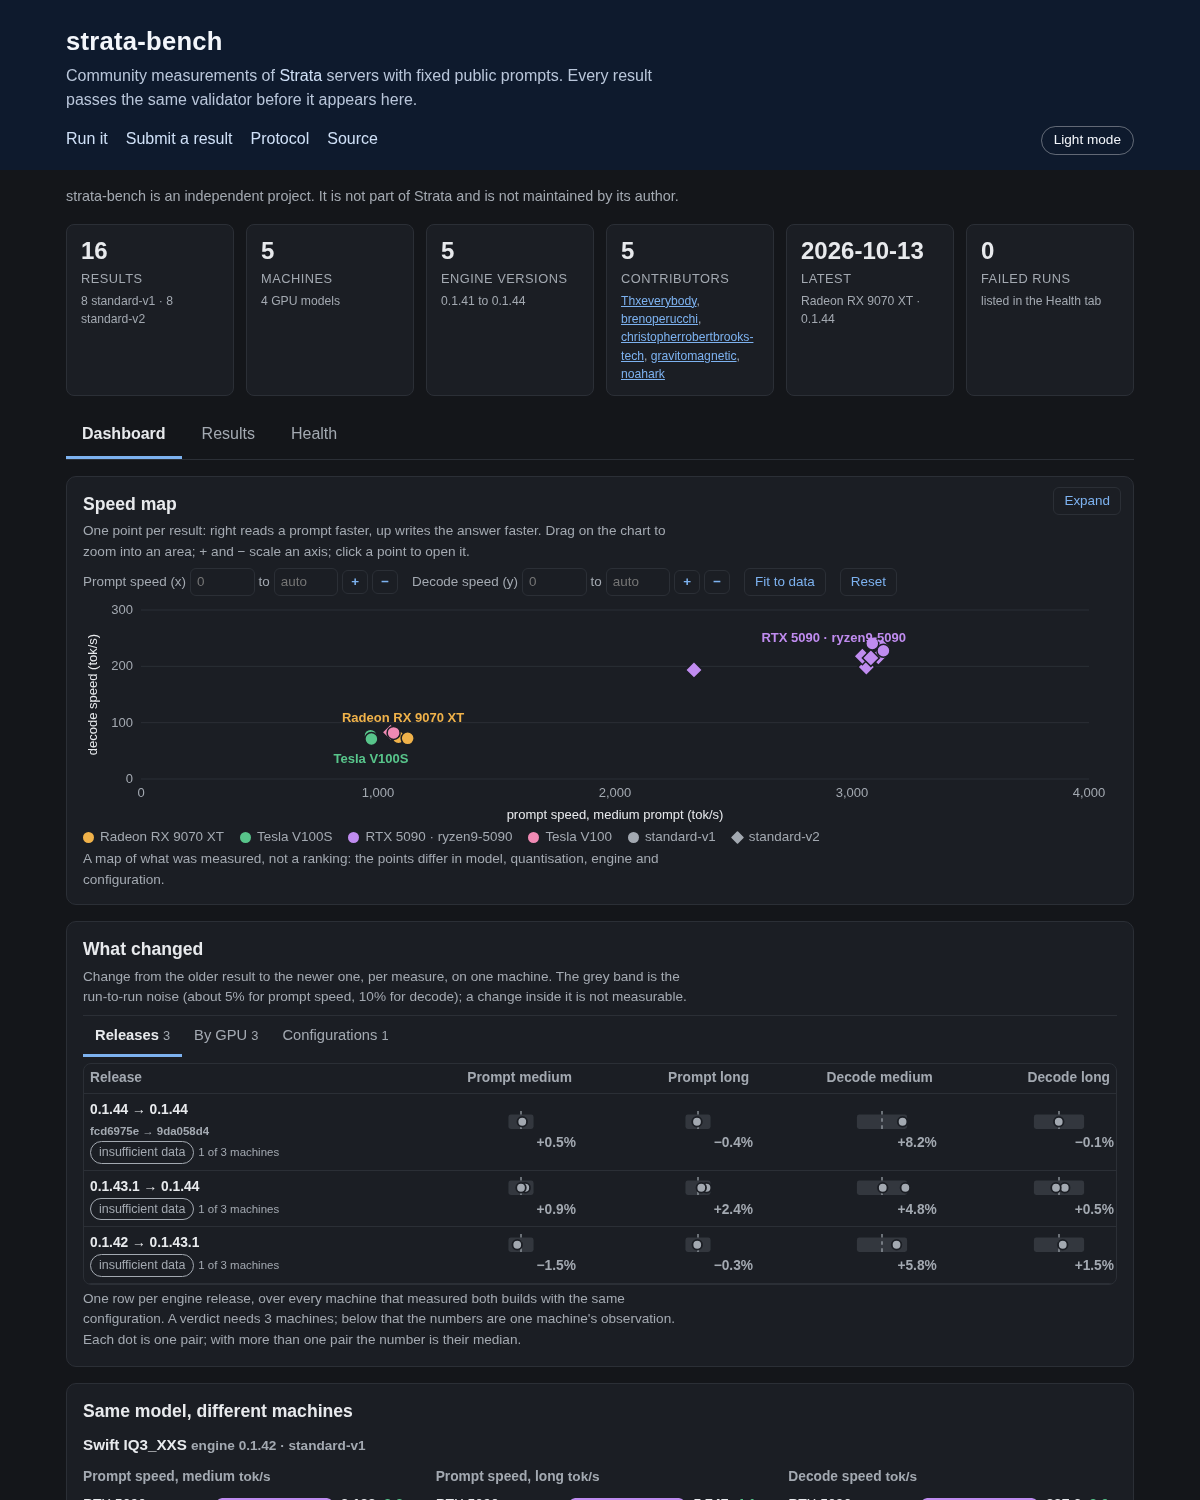
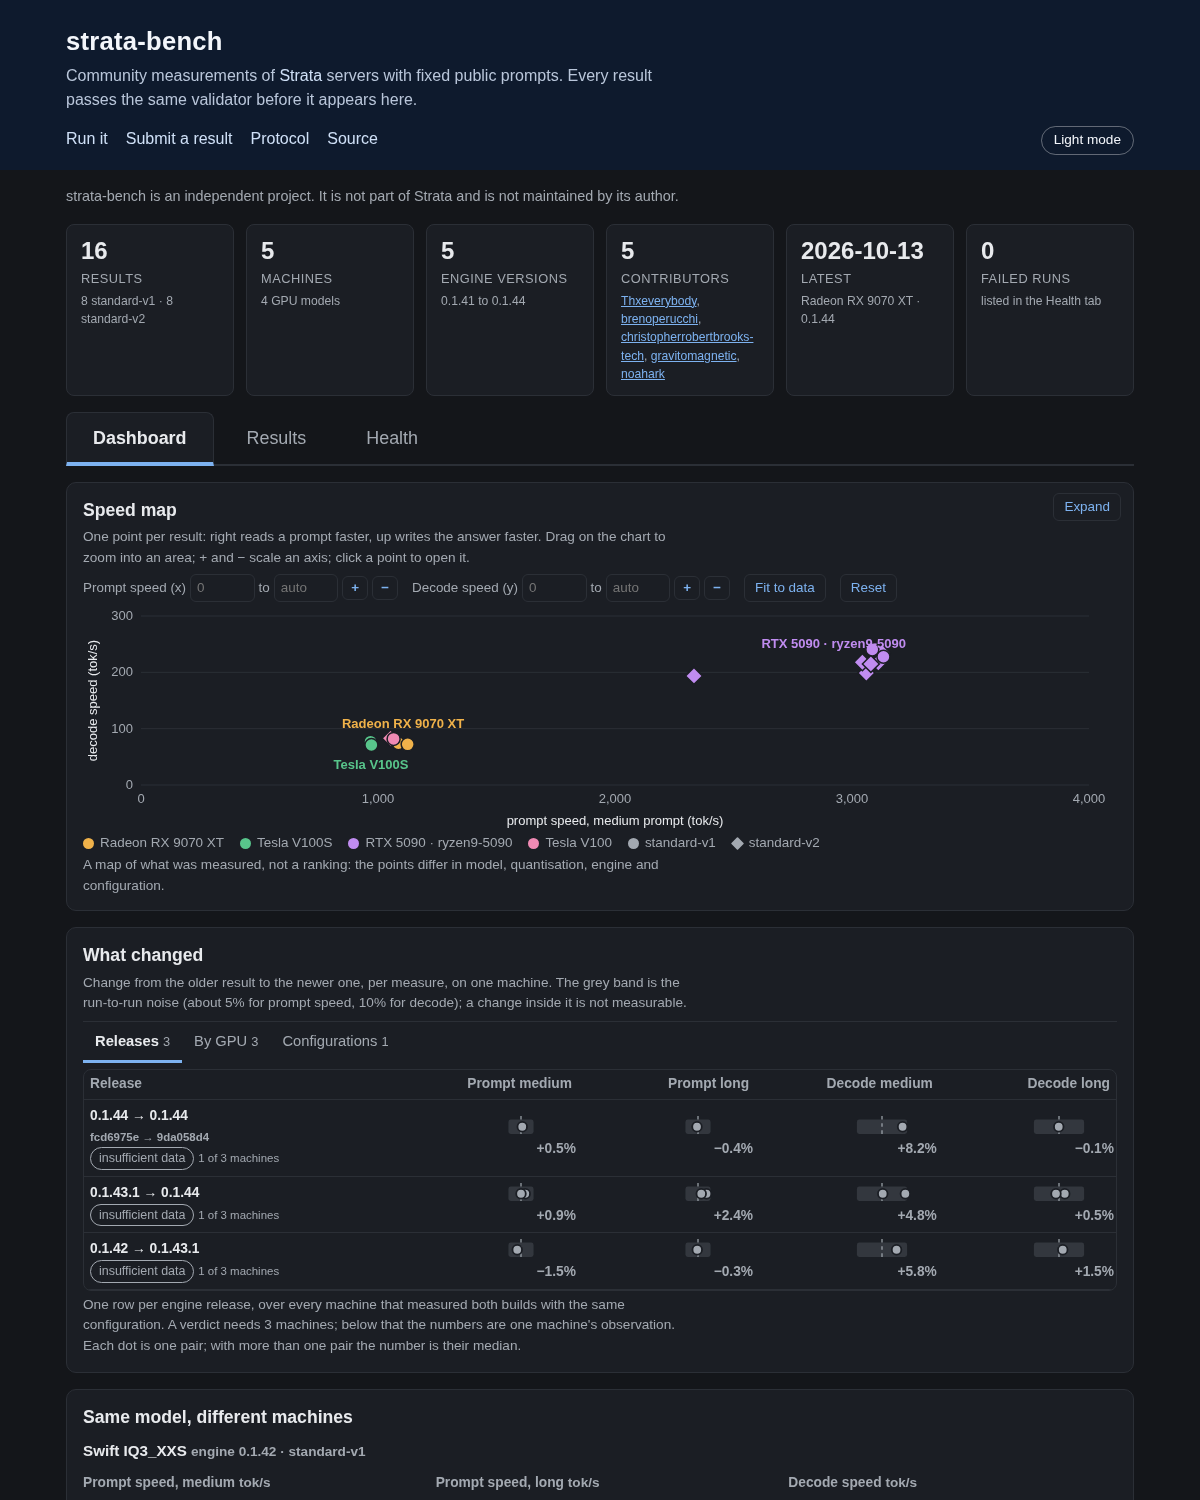
Dashboard, Results and Health tabs: larger, with a raised selected tab

diff --git a/docs/style.css b/docs/style.css
@@ -21,9 +21,12 @@ a { color: var(--accent); }
 .card b { display: block; font-size: 1.5rem; line-height: 1.2; }
 .card b.long { font-size: 1.15rem; overflow-wrap: anywhere; }
 .card span { color: var(--muted); font-size: .85rem; }
-.tabs { display: flex; gap: 4px; border-bottom: 1px solid var(--line); margin-top: 8px; }
-.tabs button { background: none; border: 0; color: var(--muted); padding: 10px 16px; font: inherit; cursor: pointer; border-bottom: 3px solid transparent; }
-.tabs button[aria-selected="true"] { color: var(--fg); border-bottom-color: var(--accent); font-weight: 600; }
+.tabs { display: flex; gap: 6px; border-bottom: 2px solid var(--line); margin-top: 16px; }
+.tabs button { background: none; border: 1px solid transparent; border-bottom: 4px solid transparent; border-radius: 8px 8px 0 0; color: var(--muted); padding: 12px 26px 10px; font: inherit; font-size: 1.12rem; font-weight: 500; cursor: pointer; margin-bottom: -2px; }
+.tabs button:hover { color: var(--fg); background: var(--band); }
+.tabs button[aria-selected="true"] { color: var(--fg); font-weight: 700; background: var(--card); border-color: var(--line); border-bottom-color: var(--accent); }
+.tabs button:focus-visible { outline: 2px solid var(--accent); outline-offset: -2px; }
+@media (max-width: 520px) { .tabs button { padding: 10px 14px 8px; font-size: 1rem; } }
 .filters { display: flex; flex-wrap: wrap; gap: 10px; margin: 14px 0; }
 .filters label { font-size: .85rem; color: var(--muted); display: flex; flex-direction: column; gap: 2px; }
 select { background: var(--card); color: var(--fg); border: 1px solid var(--line); border-radius: 6px; padding: 6px 8px; font: inherit; min-width: 150px; }
